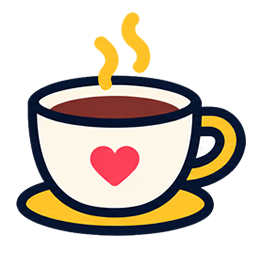
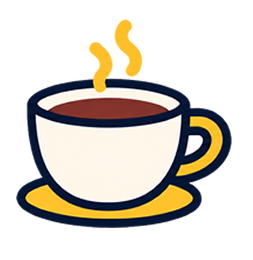
feat: íconos de recompensas personalizados, Workcofy Partners, quita racha del header
- components/app/BenefitCard.tsx: mapea el emoji guardado en cada
  beneficio/canje (☕ 💻 🧑💻 🎟) al ícono a color correspondiente
  provisto por el cliente, con fallback al emoji para lo no mapeado
- "En Workcofy Spots" → "En Workcofy Partners" (heading + badge en la
  tarjeta), en /beneficios y en la sección Beneficios de Explorar
  (mismo componente)
- Quita el badge de racha (🔥/Retos) del header — el puntaje ya vive en
  W Coins, era redundante; elimina StreakBadge.tsx (sin más usos)

Changed region(s): [[0.0553, 0.0308, 0.996, 0.9231], [0.332, 0.5538, 0.5534, 0.7385], [0.415, 0.4923, 0.4427, 0.5231]]

diff --git a/components/app/BenefitCard.tsx b/components/app/BenefitCard.tsx
@@ -3,6 +3,26 @@ import { districtLabel } from '@/lib/districts'
 import type { SpaceBenefitWithSpace } from '@/lib/data/benefits'
 import type { CoinRedemption } from '@/lib/data/coins'
 
+// `benefit.icon`/`redemption.icon` are free-text emoji set per row in the
+// DB — this maps the ones actually in use today to the client's custom
+// artwork, and falls back to the raw emoji for anything not yet mapped so
+// new rows never render blank.
+const ICON_ARTWORK: Record<string, string> = {
+  '☕': '/icons/reward-coffee.png',
+  '💻': '/icons/reward-hours.png',
+  '🧑💻': '/icons/reward-experience.png',
+  '🎟': '/icons/reward-visits.png',
+}
+
+function RewardIcon({ icon, fallback, className = '' }: { icon: string | null; fallback: string; className?: string }) {
+  const artwork = icon ? ICON_ARTWORK[icon] : undefined
+  if (artwork) {
+    // eslint-disable-next-line @next/next/no-img-element
+    return <img src={artwork} alt="" className={`${className} object-contain`} />
+  }
+  return <span className={`${className} flex items-center justify-center text-lg`}>{icon || fallback}</span>
+}
+
 // A partner perk at a specific venue. "Muestra tu Pass" is the redemption
 // mechanic these are being prepared for — today it just deep-links to the
 // Pass; the pass-scan validation that would confirm it is the pending
@@ -11,7 +31,9 @@ export function BenefitCard({ benefit, compact = false }: { benefit: SpaceBenefi
   return (
     <div className={`flex flex-col justify-between rounded-[22px] border border-gray-100 bg-white p-4 ${compact ? 'w-[220px] flex-none' : ''}`}>
       <div className="flex items-start gap-3">
-        <span className="flex h-10 w-10 flex-none items-center justify-center rounded-2xl bg-workcofy-yellow/20 text-lg">{benefit.icon || '🎁'}</span>
+        <span className="flex h-10 w-10 flex-none items-center justify-center rounded-2xl bg-workcofy-yellow/20">
+          <RewardIcon icon={benefit.icon} fallback="🎁" className="h-6 w-6" />
+        </span>
         <div className="min-w-0">
           <p className="line-clamp-2 text-[15px] font-bold leading-snug tracking-tight">{benefit.label}</p>
           <Link href={`/spaces/${benefit.space.slug}`} className="mt-1 block truncate text-xs text-gray-500 hover:text-black">
@@ -23,7 +45,7 @@ export function BenefitCard({ benefit, compact = false }: { benefit: SpaceBenefi
         {benefit.space.verified ? (
           <span className="inline-flex items-center gap-1.5 text-[10px] font-bold uppercase tracking-[0.14em] text-black">
             <span className="h-1.5 w-1.5 rounded-full bg-workcofy-yellow" />
-            Workcofy Spot
+            Workcofy Partner
           </span>
         ) : (
           <span className="text-[10px] font-semibold uppercase tracking-[0.14em] text-gray-400">Work-friendly</span>
@@ -44,7 +66,9 @@ export function RedemptionCard({ redemption, balance }: { redemption: CoinRedemp
   return (
     <div className="rounded-[22px] border border-gray-100 bg-white p-4">
       <div className="flex items-center gap-3">
-        <span className="flex h-10 w-10 flex-none items-center justify-center rounded-2xl bg-gray-50 text-lg">{redemption.icon || '⭐'}</span>
+        <span className="flex h-10 w-10 flex-none items-center justify-center rounded-2xl bg-gray-50">
+          <RewardIcon icon={redemption.icon} fallback="⭐" className="h-6 w-6" />
+        </span>
         <div className="min-w-0 flex-1">
           <p className="truncate text-[15px] font-bold tracking-tight">{redemption.label}</p>
           <p className="flex items-center gap-1 text-xs text-gray-500">

diff --git a/components/layout/MobileHeader.tsx b/components/layout/MobileHeader.tsx
@@ -7,7 +7,6 @@ import { usePathname } from 'next/navigation'
 import { APP_NAV_LINKS, isNavLinkActive } from '@/lib/navLinks'
 import { RewardsBadge } from '@/components/layout/RewardsBadge'
 import { FavoritesShortcut, NotificationsShortcut } from '@/components/layout/FavoritesShortcut'
-import { StreakBadge } from '@/components/layout/StreakBadge'
 import { SideDrawer } from '@/components/layout/SideDrawer'
 import { AppNavIconGlyph } from '@/components/layout/BottomNavigation'
 
@@ -49,7 +48,6 @@ export function MobileHeader() {
           <div className="flex items-center gap-1 md:gap-3">
             <div className="flex items-center gap-1 md:gap-2.5">
               <RewardsBadge />
-              <StreakBadge />
               <div className="flex items-center gap-0">
                 <FavoritesShortcut />
                 <NotificationsShortcut />

diff --git a/components/layout/HeaderAuthLinks.tsx b/components/layout/HeaderAuthLinks.tsx
@@ -11,7 +11,6 @@ import { avatarFor } from '@/lib/avatars'
 import { RewardsBadge } from '@/components/layout/RewardsBadge'
 import { FavoritesShortcut, NotificationsShortcut } from '@/components/layout/FavoritesShortcut'
 import { FavoriteIcon } from '@/components/ui/FavoriteIcon'
-import { StreakBadge } from '@/components/layout/StreakBadge'
 import { LAUNCH_LOCKED } from '@/lib/launchLock'
 
 function UserIcon({ className = 'h-[18px] w-[18px]' }: { className?: string }) {
@@ -142,7 +141,6 @@ export function HeaderAuthLinks() {
   return (
     <div ref={rootRef} className="relative hidden items-center gap-3 sm:flex">
       {user && <RewardsBadge />}
-      {user && <StreakBadge />}
       {user && (
         <div className="flex items-center gap-0">
           <FavoritesShortcut />

diff --git a/app/beneficios/page.tsx b/app/beneficios/page.tsx
@@ -51,7 +51,7 @@ export default async function BeneficiosPage() {
       </div>
 
       <section className="mt-8">
-        <h2 className="text-lg font-extrabold tracking-tight">En Workcofy Spots</h2>
+        <h2 className="text-lg font-extrabold tracking-tight">En Workcofy Partners</h2>
         <p className="text-xs text-gray-500">Beneficios de los establecimientos verificados de la red</p>
         {spotBenefits.length === 0 ? (
           <p className="mt-3 rounded-2xl border border-dashed border-gray-200 p-5 text-sm text-gray-400">Aún no hay beneficios cargados en Spots. Pronto.</p>
